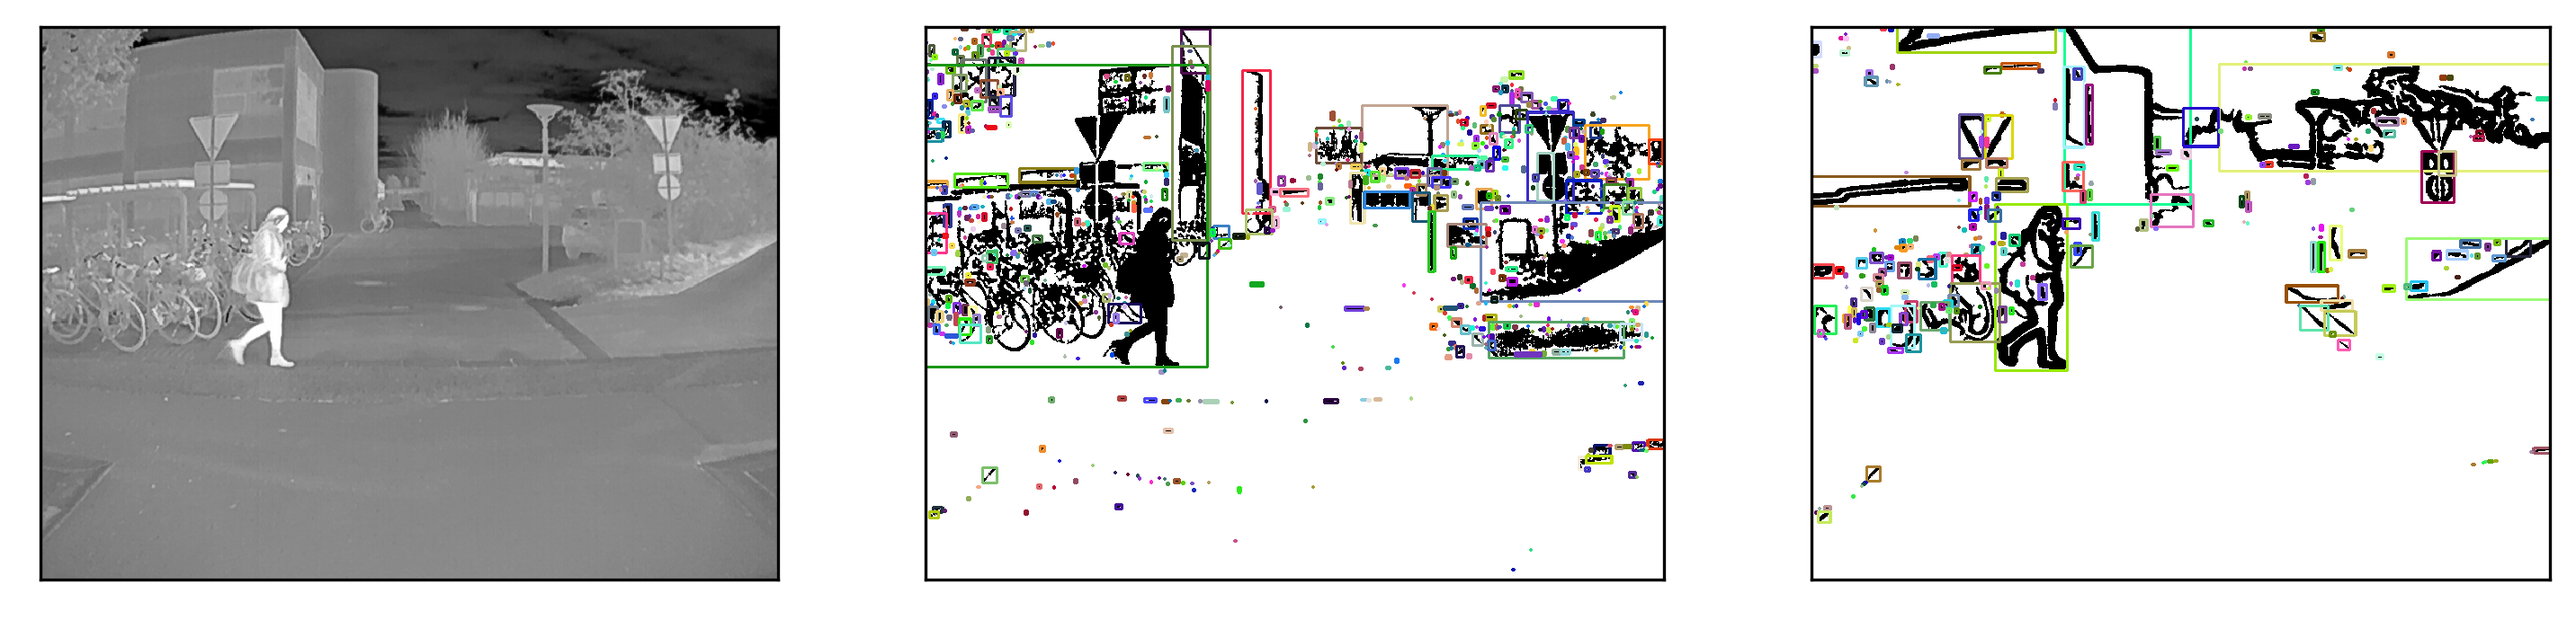
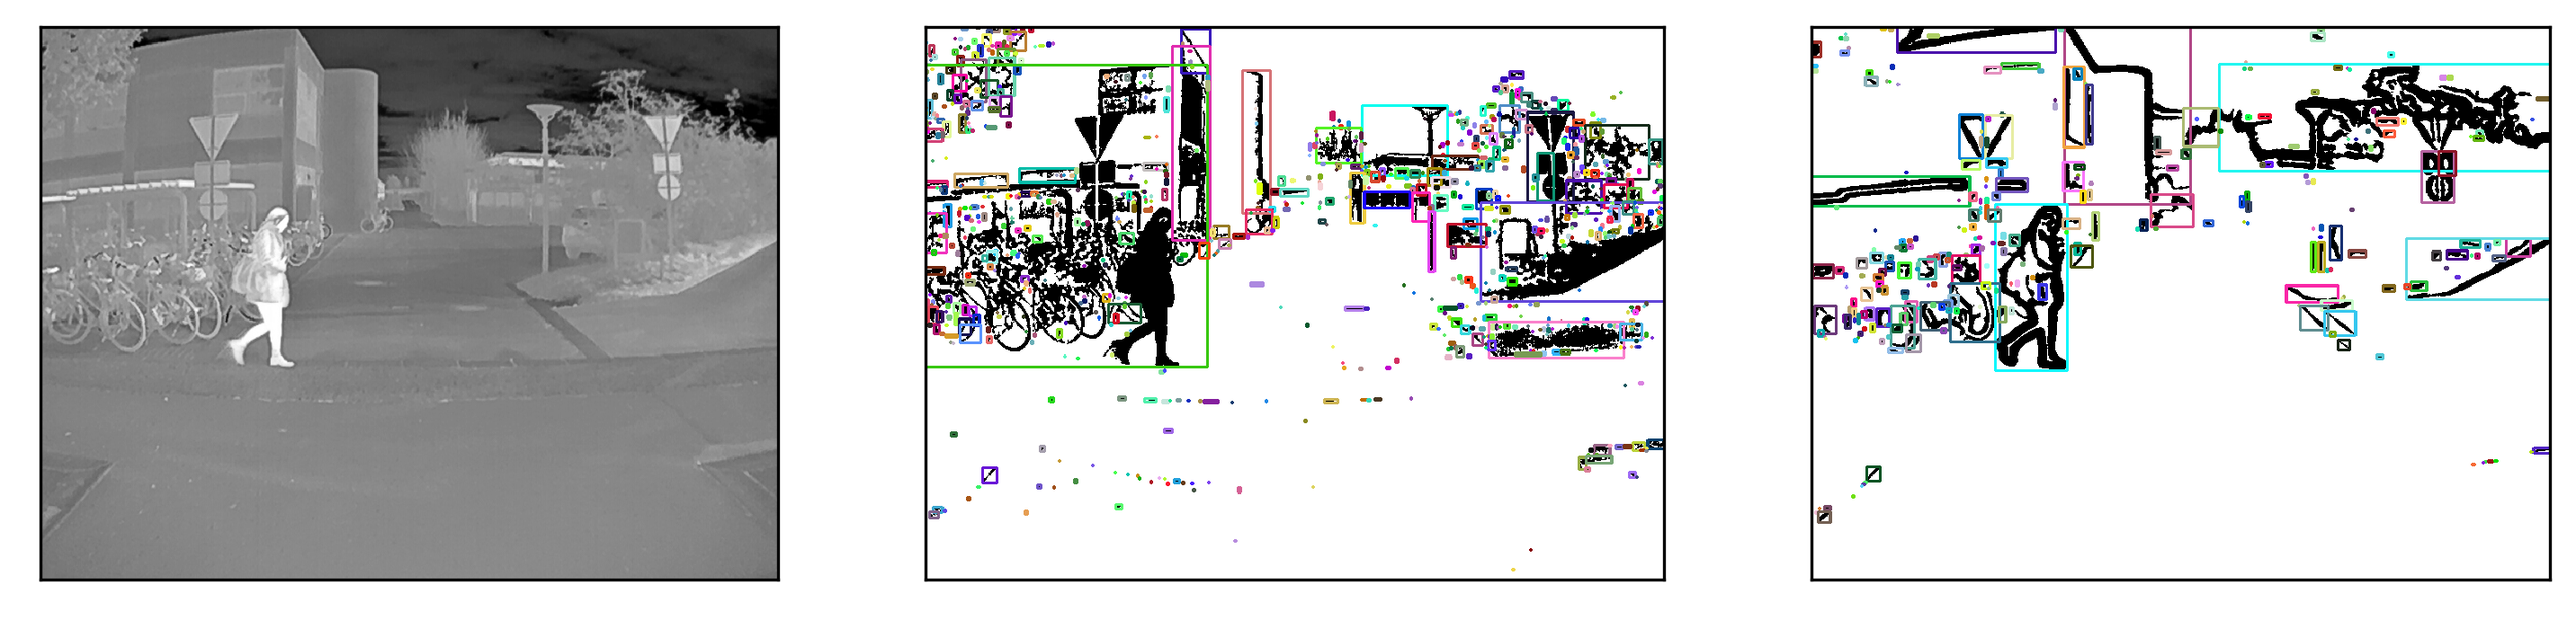
script for generating confidence map after running yolo

diff --git a/catkin_ws/src/persondetection/src/testing/testing_yoloconfmap.py b/catkin_ws/src/persondetection/src/testing/testing_yoloconfmap.py
@@ -1,0 +1,33 @@
+#!/usr/bin/env python3
+
+from utils.boxes import *
+from utils.img_utils import *
+from utils.transformbox import get_boxes_zedframe
+from persondetection.run_yolo import *
+
+SHOW_PLOTS = True
+
+folder = "src/persondetection/src/testing/"
+
+print(os.getcwd())
+for imgpath in glob.glob(folder+"test_img/ircam*.png"):
+    #thresholding(imgpath)
+    print(imgpath)
+    img = cv2.imread(imgpath)
+
+    cimg, boxes = detect_from_img(img)
+    boxes_zedframe = get_boxes_zedframe([Box(blank_ir_3D,xyxy=box['coords'],confidence=1) for box in boxes])
+    boxes_img = plot_boxes_on_img(blank_zed_3D,[box.xyxy for box in boxes_zedframe])
+    map = makeConfidenceMapFromBoxes(blank_zed_3D, boxes_zedframe)
+
+    images = [boxes_img, map]
+    plt.figure(num=None, figsize=(12, 4), dpi=300)
+
+    for i in range(len(images)):
+        plt.subplot(1, len(images), i + 1), plt.imshow(images[i], 'gray')
+        # plt.title(titles[i])
+        plt.xticks([]), plt.yticks([])
+    plt.imshow(map)
+
+    if SHOW_PLOTS: plt.show()
+    # histo(imgpath)
